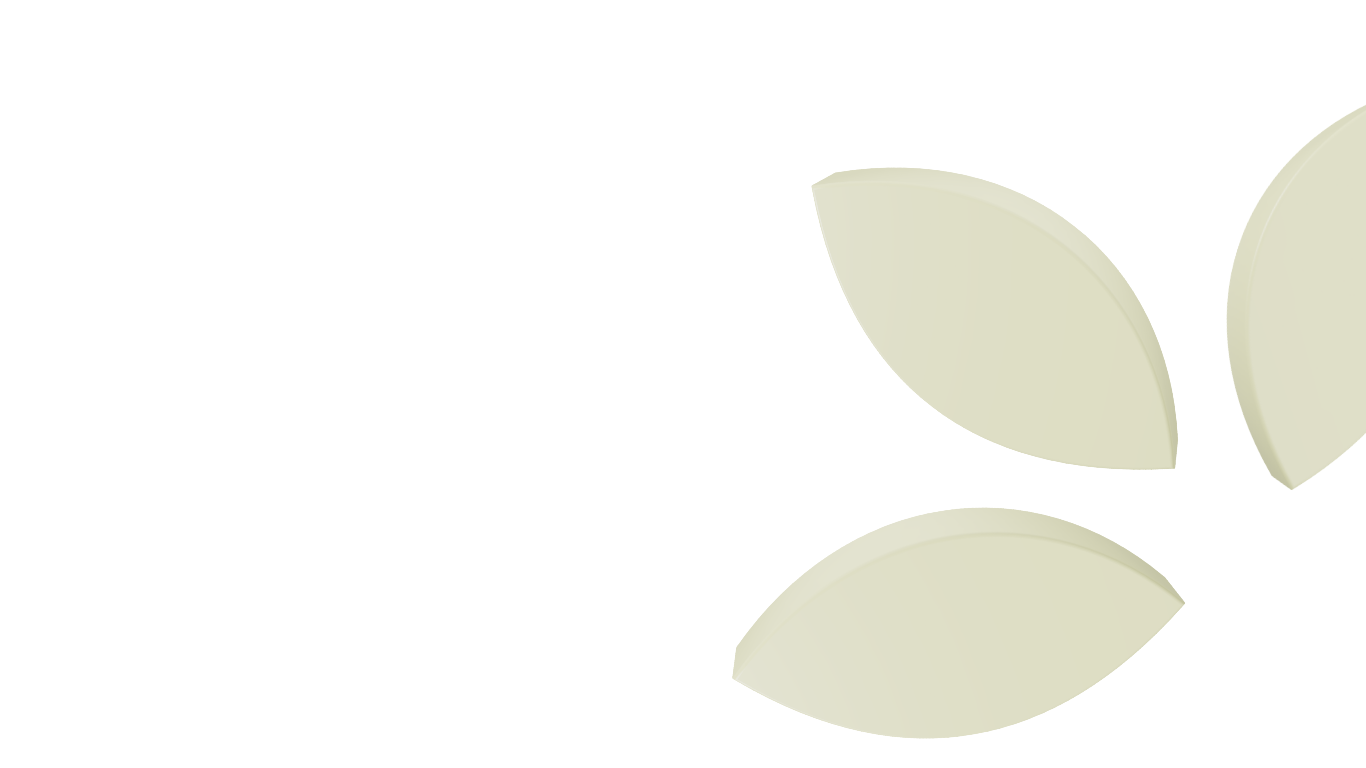
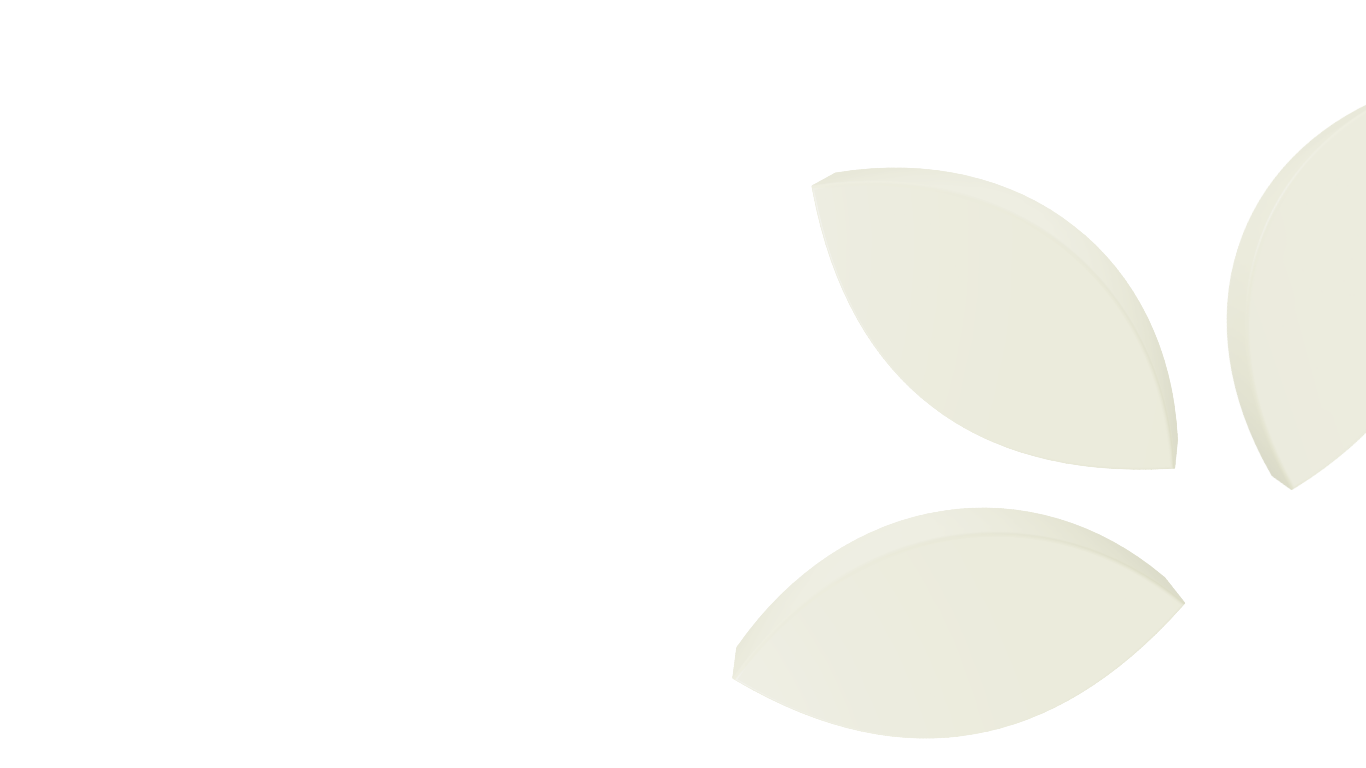
refactor: replace absolute bg component with background image

diff --git a/app/page.jsx b/app/page.jsx
@@ -32,14 +32,10 @@ const nunito = Nunito({ weight: ['700', '800'] });
 export default function Home() {
 	return (
 		<>
-			<Image
-				src='/matchos-bg.png'
-				alt='bg'
-				fill={true}
-				className='object-cover opacity-60 select-none'
-				draggable='false'
-			/>{' '}
-			<section className='flex items-center max-h-screen py-23 md:py-55 px-8 md:px-30'>
+			<section
+				className='flex items-center max-h-screen py-23 md:py-55 px-8 md:px-30 bg-no-repeat bg-cover bg-right'
+				style={{ backgroundImage: "url('/matchos-bg.png')" }}
+			>
 				<div className='fixed top-0 left-0 -z-1 '></div>
 				<div className='flex flex-col justify-center gap-10'>
 					<div className='flex flex-col gap-8'>
@@ -69,13 +65,21 @@ export default function Home() {
 					</div>
 					<div className={`${inter.className} flex flex-row gap-3 `}>
 						<CustomButton text='View Menu' icon={<ArrowRight />} scrollTo='menu' />
-						<CustomButton variant='ghost' text='Find Us' icon={<MapPin size={30} />} scrollTo='location' />
+						<CustomButton
+							variant='ghost'
+							text='Find Us'
+							icon={<MapPin size={30} />}
+							scrollTo='location'
+						/>
 					</div>
 				</div>
 				{/* <Image src={'/stock1-nobg.png'} alt='stc' width={500} height={500} /> 
 				<Image src={'/wave.svg'} alt='stc' fill={true} /> */}
 			</section>
-			<section id='location' className=' relative w-full h-fit px-8 md:px-30 flex flex-col-reverse items-center md:flex-row bg-background gap-20 py-15'>
+			<section
+				id='location'
+				className=' relative w-full h-fit px-8 md:px-30 flex flex-col-reverse items-center md:flex-row bg-background gap-20 py-15'
+			>
 				<MapBlock />
 				<div className='flex flex-col gap-7 p-3'>
 					<div>
@@ -152,7 +156,10 @@ export default function Home() {
 					</div>
 				</div>
 			</section>
-			<div className='bg-[url(/wave.svg)] w-full h-40 bg-no-repeat bg-cover' />
+			<div
+				className='w-full h-40 bg-no-repeat bg-cover'
+				style={{ backgroundImage: 'url(/wave.svg)' }}
+			/>
 			<section className=' relative h-fit w-full mx-auto flex flex-col justify-center items-center bg-background-secondary gap-15 pt-10 pb-20'>
 				{' '}
 				<div>
